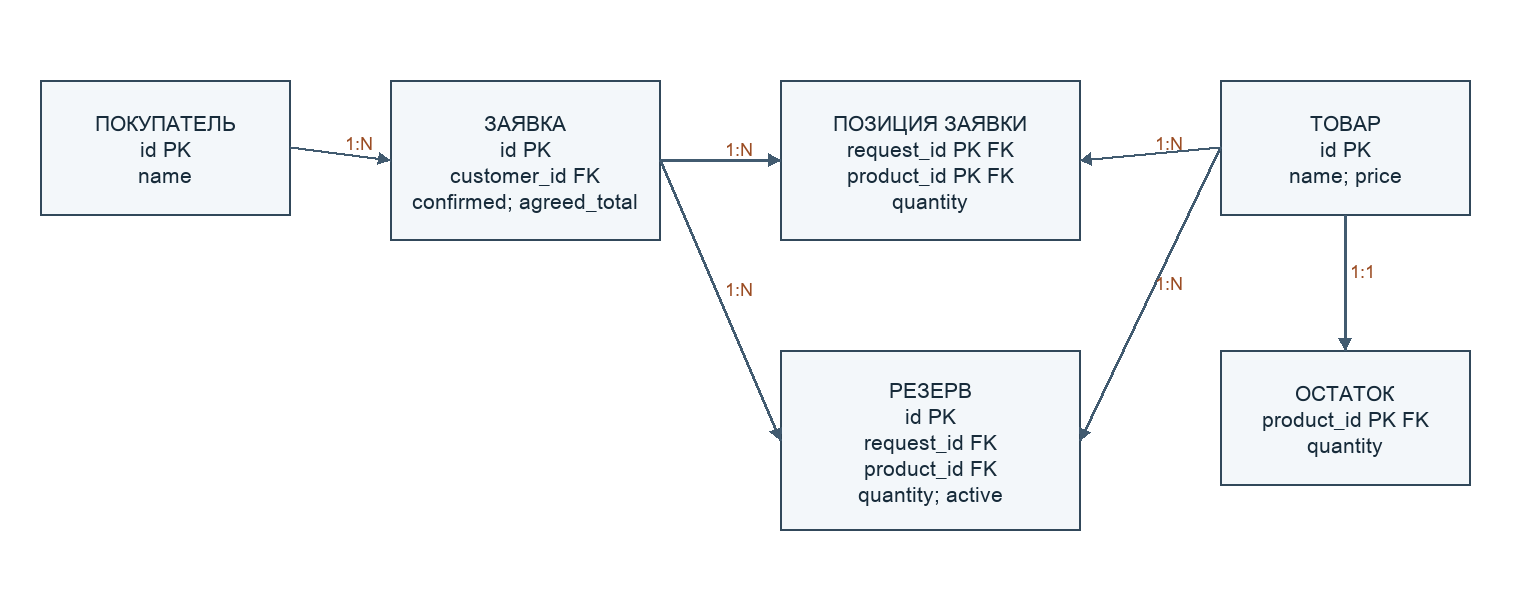
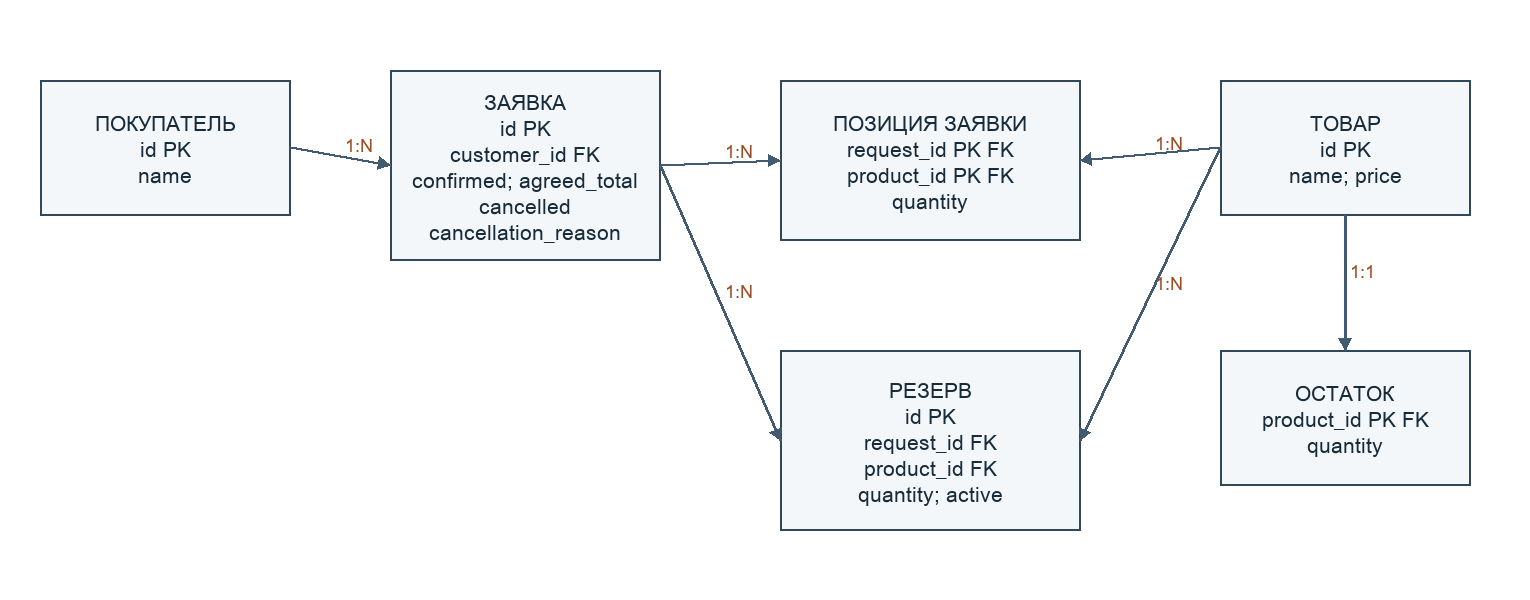
Добавить снятие резерва при отмене заказа

diff --git a/src/main.py b/src/main.py
@@ -52,6 +52,8 @@ def calculate_total(lines, products):
 
 
 def reserve_request(request, lines, products, stocks, reservations):
+    if request.get("cancelled"):
+        return {"status": "rejected", "reason": "Заказ отменён"}
     if any(item["request_id"] == request["id"] and item["active"] for item in reservations):
         return {"status": "rejected", "reason": "Заявка уже зарезервирована"}
     shortages = check_availability(lines, stocks, reservations)
@@ -65,7 +67,32 @@ def reserve_request(request, lines, products, stocks, reservations):
     return {"status": "reserved", "request_id": request["id"], "total": str(total)}
 
 
+def cancel_request(data):
+    """Release this request's active reservations without changing physical stock."""
+    request = data["request"]
+    cancellation = data.get("cancellation", {})
+    if cancellation.get("request_id") != request.get("id"):
+        return {"status": "rejected", "reason": "Неверный номер заявки"}
+    reason = cancellation.get("reason")
+    if not isinstance(reason, str) or not reason.strip():
+        return {"status": "rejected", "reason": "Укажите причину отмены"}
+    if request.get("cancelled"):
+        return {"status": "rejected", "reason": "Заказ уже отменён"}
+    active = [item for item in data["reservations"]
+              if item["request_id"] == request["id"] and item["active"]]
+    if not active:
+        return {"status": "rejected", "reason": "У заказа нет активного резерва"}
+    for item in active:
+        item["active"] = False
+    request["cancelled"] = True
+    request["cancellation_reason"] = reason.strip()
+    return {"status": "cancelled", "request_id": request["id"],
+            "reason": request["cancellation_reason"], "released_reservations": len(active)}
+
+
 def process_request(data):
+    if data.get("operation") == "cancel":
+        return cancel_request(data)
     customers = {item["id"]: item for item in data["customers"]}
     products = {item["id"]: item for item in data["products"]}
     stocks = {item["product_id"]: item["quantity"] for item in data["stocks"]}

diff --git a/models/generate.py b/models/generate.py
@@ -145,7 +145,7 @@ def main():
     picture("bpmn",1720,900,process,flows,[("Менеджер",40,205),("Система",250,215),("Покупатель",470,160),("Склад",635,245)])
     bpmn(process,flows)
     er={
-      "customer":("ПОКУПАТЕЛЬ\nid PK\nname","process",40,80,250,135),"request":("ЗАЯВКА\nid PK\ncustomer_id FK\nconfirmed; agreed_total","process",390,80,270,160),
+      "customer":("ПОКУПАТЕЛЬ\nid PK\nname","process",40,80,250,135),"request":("ЗАЯВКА\nid PK\ncustomer_id FK\nconfirmed; agreed_total\ncancelled\ncancellation_reason","process",390,70,270,190),
       "line":("ПОЗИЦИЯ ЗАЯВКИ\nrequest_id PK FK\nproduct_id PK FK\nquantity","process",780,80,300,160),
       "product":("ТОВАР\nid PK\nname; price","process",1220,80,250,135),"stock":("ОСТАТОК\nproduct_id PK FK\nquantity","process",1220,350,250,135),
       "reserve":("РЕЗЕРВ\nid PK\nrequest_id FK\nproduct_id FK\nquantity; active","process",780,350,300,180)}

diff --git a/src/README.md b/src/README.md
@@ -23,3 +23,25 @@ python3 main.py example.json
 запрос возвращается на согласование. Резерв создаётся целиком только после
 повторной проверки. Изменения живут в памяти одного запуска, поэтому программа
 не обеспечивает защиту от одновременных процессов и не заменяет транзакцию СУБД.
+
+Для отмены уже зарезервированного заказа запустите:
+
+```sh
+python3 main.py example_cancel.json
+```
+
+Поле `operation` равно `cancel`, а `cancellation` содержит номер заявки и
+непустую причину. Программа снимает все активные резервы этой заявки, записывает
+причину в заявку и возвращает `status: cancelled`. Повторная отмена отклоняется.
+Физические остатки не меняются.
+
+Ожидаемый вывод для `example_cancel.json`:
+
+```json
+{
+  "status": "cancelled",
+  "request_id": "R1",
+  "reason": "Покупатель отказался от заказа",
+  "released_reservations": 2
+}
+```
